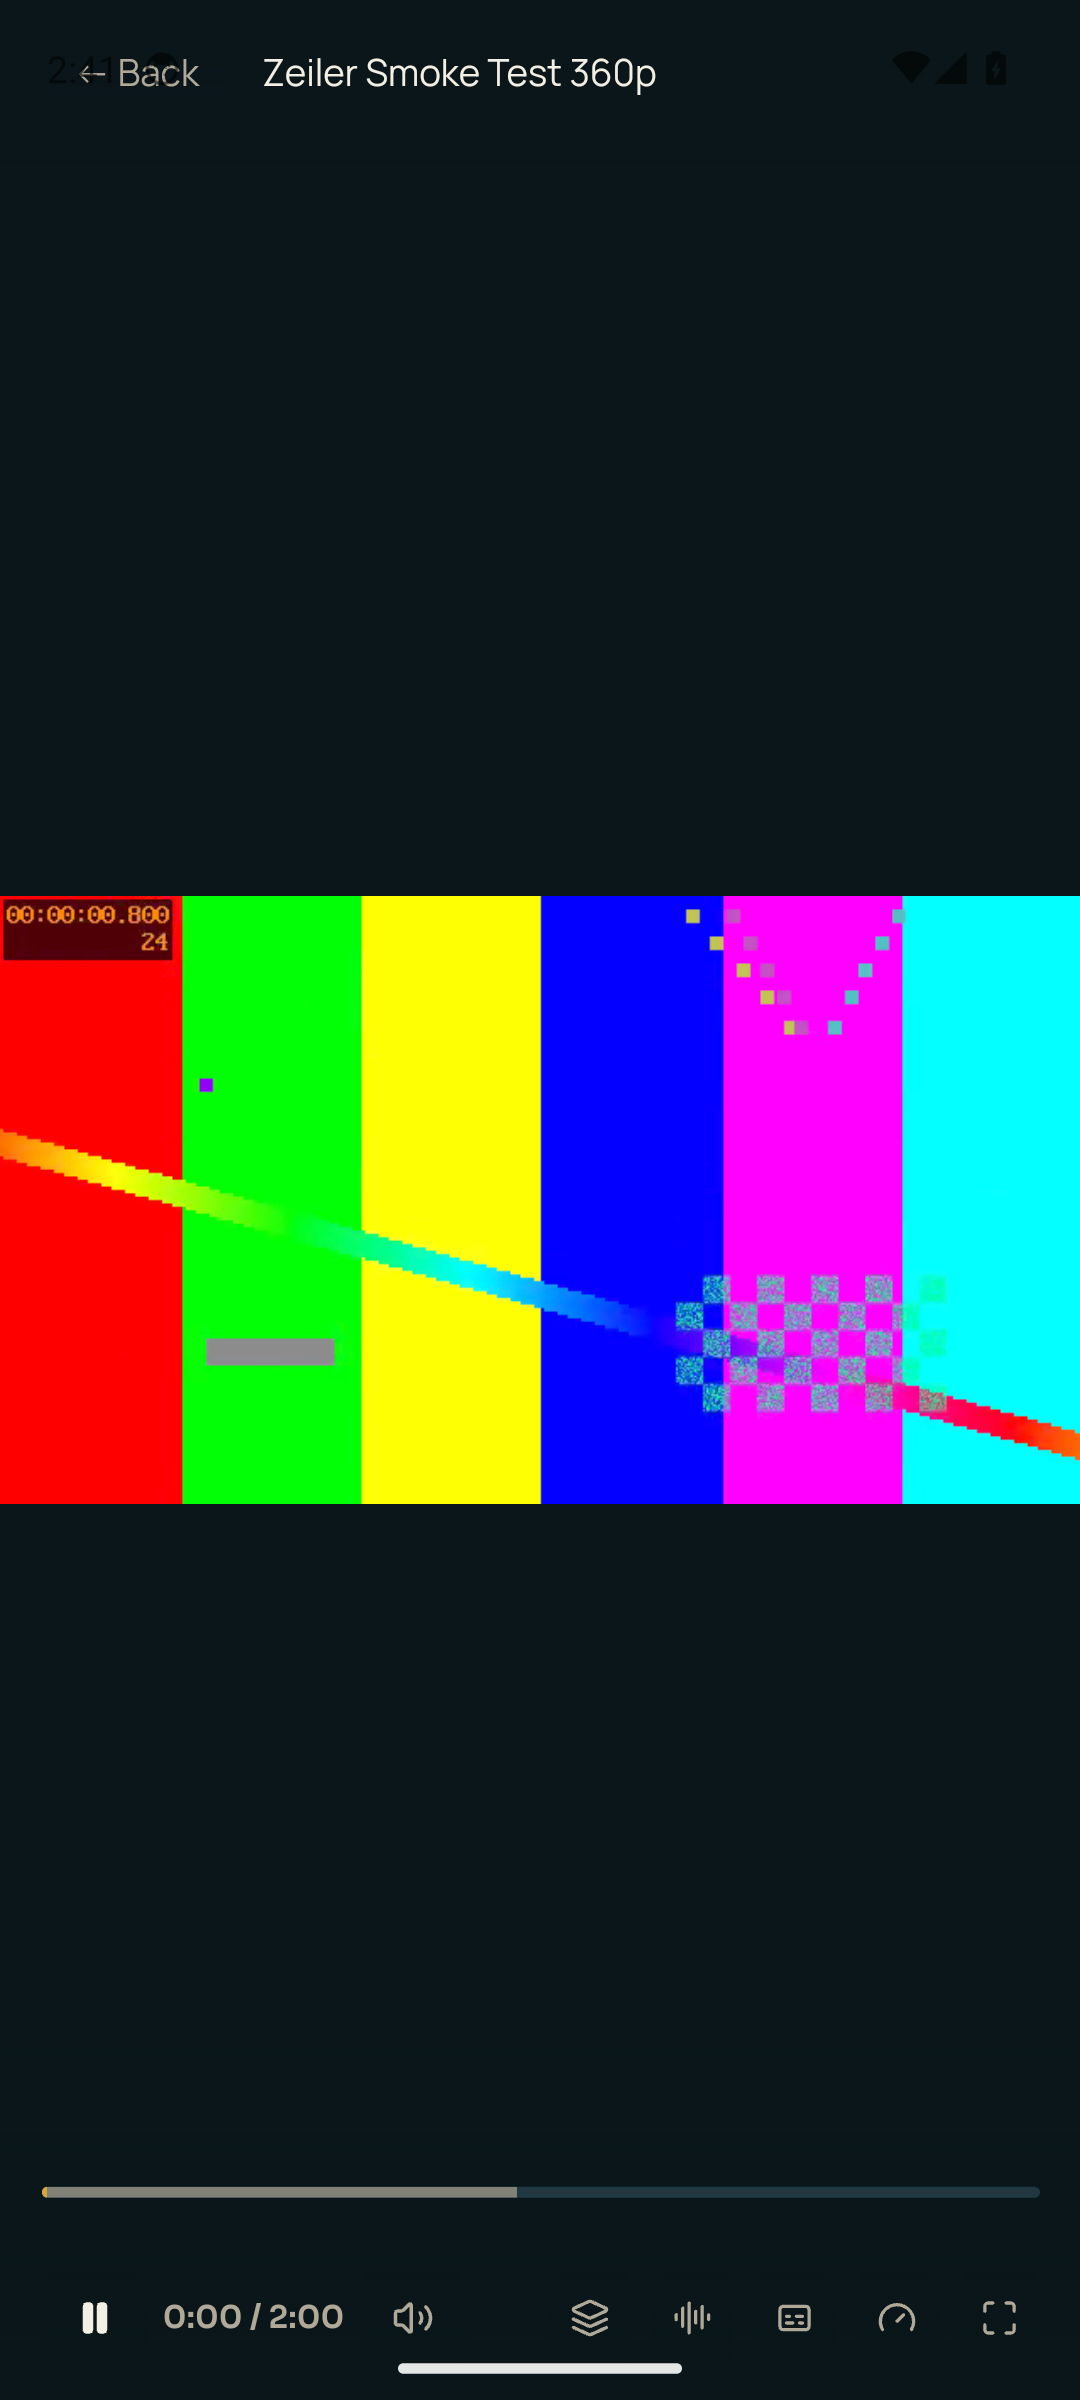
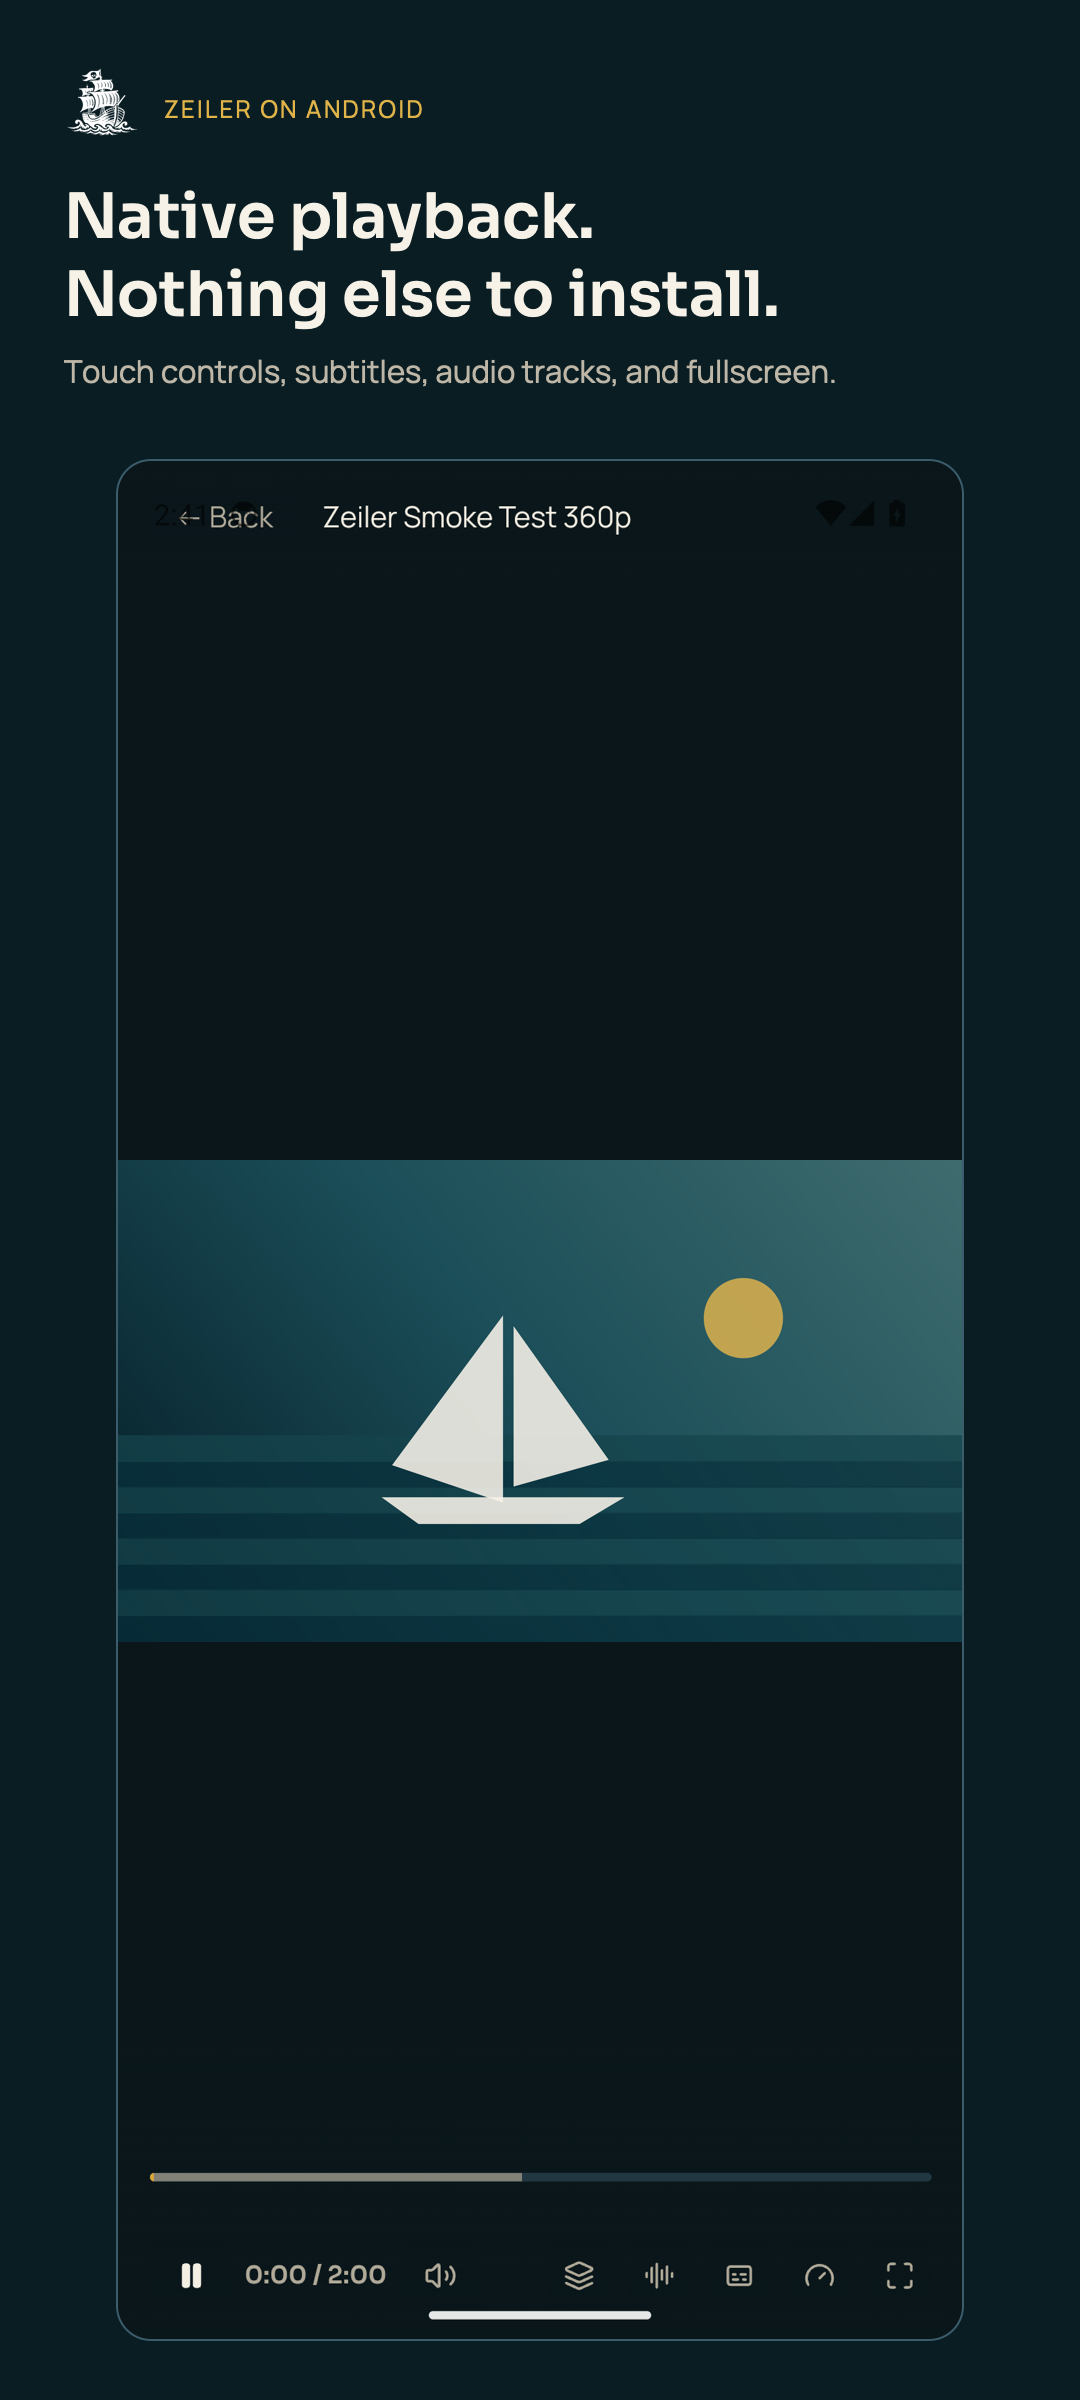
Add Play promotional screenshots

diff --git a/scripts/render-play-screenshots.swift b/scripts/render-play-screenshots.swift
@@ -1,0 +1,214 @@
+import AppKit
+import CoreText
+
+let root = URL(fileURLWithPath: #filePath).deletingLastPathComponent().deletingLastPathComponent()
+let fonts = [
+  "public/fonts/sora-600.ttf",
+  "public/fonts/manrope-400.ttf",
+  "public/fonts/manrope-600.ttf",
+]
+for font in fonts {
+  CTFontManagerRegisterFontsForURL(root.appendingPathComponent(font) as CFURL, .process, nil)
+}
+
+func color(_ hex: UInt32) -> NSColor {
+  NSColor(
+    calibratedRed: CGFloat((hex >> 16) & 0xff) / 255,
+    green: CGFloat((hex >> 8) & 0xff) / 255,
+    blue: CGFloat(hex & 0xff) / 255,
+    alpha: 1
+  )
+}
+
+let canvas = color(0x0a161a)
+let ink = color(0xf4efe3)
+let muted = color(0xb0a998)
+let accent = color(0xd9a63a)
+let edge = color(0x2e4a57)
+let logo = NSImage(contentsOf: root.appendingPathComponent("assets/brand/zeiler-logo-white.png"))!
+
+func font(_ name: String, _ size: CGFloat) -> NSFont {
+  NSFont(name: name, size: size) ?? NSFont.systemFont(ofSize: size)
+}
+
+func scene() -> NSImage {
+  let image = NSImage(size: NSSize(width: 1600, height: 900))
+  image.lockFocus()
+  let rect = NSRect(x: 0, y: 0, width: 1600, height: 900)
+  NSGradient(colors: [color(0x07151c), color(0x163d46), color(0x31595b)])!
+    .draw(in: rect, angle: 40)
+  accent.withAlphaComponent(0.82).setFill()
+  NSBezierPath(ovalIn: NSRect(x: 1110, y: 530, width: 150, height: 150)).fill()
+  for index in 0..<8 {
+    color(index % 2 == 0 ? 0x0a242d : 0x12343b).withAlphaComponent(0.74).setFill()
+    NSBezierPath(rect: NSRect(x: 0, y: index * 48, width: 1600, height: 50)).fill()
+  }
+  ink.withAlphaComponent(0.88).setFill()
+  let sail = NSBezierPath()
+  sail.move(to: NSPoint(x: 730, y: 260))
+  sail.line(to: NSPoint(x: 730, y: 610))
+  sail.line(to: NSPoint(x: 520, y: 330))
+  sail.close()
+  sail.fill()
+  let otherSail = NSBezierPath()
+  otherSail.move(to: NSPoint(x: 750, y: 590))
+  otherSail.line(to: NSPoint(x: 750, y: 290))
+  otherSail.line(to: NSPoint(x: 930, y: 340))
+  otherSail.close()
+  otherSail.fill()
+  let hull = NSBezierPath()
+  hull.move(to: NSPoint(x: 500, y: 270))
+  hull.line(to: NSPoint(x: 960, y: 270))
+  hull.line(to: NSPoint(x: 875, y: 220))
+  hull.line(to: NSPoint(x: 570, y: 220))
+  hull.close()
+  hull.fill()
+  image.unlockFocus()
+  return image
+}
+
+func render(
+  source: String,
+  output: String,
+  width: Int,
+  height: Int,
+  title: String,
+  body: String,
+  phone: Bool
+) throws {
+  guard let bitmap = NSBitmapImageRep(
+    bitmapDataPlanes: nil,
+    pixelsWide: width,
+    pixelsHigh: height,
+    bitsPerSample: 8,
+    samplesPerPixel: 4,
+    hasAlpha: true,
+    isPlanar: false,
+    colorSpaceName: .deviceRGB,
+    bytesPerRow: 0,
+    bitsPerPixel: 0
+  ) else { fatalError("Could not allocate the screenshot canvas") }
+  NSGraphicsContext.saveGraphicsState()
+  NSGraphicsContext.current = NSGraphicsContext(bitmapImageRep: bitmap)
+  canvas.setFill()
+  NSRect(x: 0, y: 0, width: width, height: height).fill()
+
+  func topRect(_ x: CGFloat, _ y: CGFloat, _ w: CGFloat, _ h: CGFloat) -> NSRect {
+    NSRect(x: x, y: CGFloat(height) - y - h, width: w, height: h)
+  }
+  func text(_ value: String, _ rect: NSRect, _ typeface: NSFont, _ foreground: NSColor, tracking: CGFloat = 0) {
+    let paragraph = NSMutableParagraphStyle()
+    paragraph.lineBreakMode = .byWordWrapping
+    value.draw(in: rect, withAttributes: [
+      .font: typeface,
+      .foregroundColor: foreground,
+      .paragraphStyle: paragraph,
+      .kern: tracking,
+    ])
+  }
+
+  if phone {
+    logo.draw(in: topRect(64, 64, 76, 76))
+    text("ZEILER ON ANDROID", topRect(164, 92, 700, 28), font("Manrope", 24), accent, tracking: 2.4)
+    text(title, topRect(64, 178, 940, 165), font("Sora", 62), ink)
+    text(body, topRect(64, 350, 900, 74), font("Manrope", 31), muted)
+  } else {
+    logo.draw(in: topRect(64, 64, 76, 76))
+    text("ZEILER ON ANDROID TV", topRect(164, 92, 400, 28), font("Manrope", 22), accent, tracking: 2)
+    text(title, topRect(64, 205, 470, 220), font("Sora", 58), ink)
+    text(body, topRect(64, 455, 450, 130), font("Manrope", 29), muted)
+  }
+
+  let image = NSImage(contentsOf: root.appendingPathComponent(source))!
+  let frame = phone ? topRect(117, 460, 846, 1880) : topRect(590, 202, 1270, 714)
+  let clip = NSBezierPath(roundedRect: frame, xRadius: phone ? 34 : 20, yRadius: phone ? 34 : 20)
+  clip.addClip()
+  image.draw(in: frame)
+  if source.contains("player") {
+    if phone {
+      scene().draw(in: topRect(117, 1160, 846, 482))
+    } else {
+      scene().draw(in: frame)
+      canvas.withAlphaComponent(0.56).setFill()
+      topRect(590, 202, 1270, 72).fill()
+      text("← Back", topRect(618, 224, 120, 28), font("Manrope", 22), ink)
+      text("Voyage Home", topRect(760, 224, 420, 28), font("Manrope", 22), ink)
+      canvas.withAlphaComponent(0.92).setFill()
+      topRect(590, 794, 1270, 122).fill()
+      muted.setFill()
+      topRect(630, 810, 1180, 3).fill()
+      accent.setFill()
+      topRect(630, 810, 480, 3).fill()
+      text("Ⅱ", topRect(630, 840, 34, 34), font("Manrope", 24), ink)
+      text("1:17 / 2:00", topRect(690, 844, 170, 28), font("Manrope", 20), muted)
+      text("Streams", topRect(1320, 842, 130, 28), font("Manrope", 20), muted)
+      text("Audio", topRect(1460, 842, 90, 28), font("Manrope", 20), muted)
+      text("Subtitles", topRect(1580, 842, 140, 28), font("Manrope", 20), muted)
+      text("1×", topRect(1760, 842, 40, 28), font("Manrope", 20), muted)
+      text("⛶", topRect(1810, 840, 40, 34), font("Manrope", 24), muted)
+    }
+  }
+  NSGraphicsContext.current?.restoreGraphicsState()
+  NSGraphicsContext.current = NSGraphicsContext(bitmapImageRep: bitmap)
+  edge.setStroke()
+  clip.lineWidth = 2
+  clip.stroke()
+
+  let destination = root.appendingPathComponent(output)
+  try FileManager.default.createDirectory(at: destination.deletingLastPathComponent(), withIntermediateDirectories: true)
+  guard let data = bitmap.representation(using: .png, properties: [:]) else {
+    fatalError("Could not encode \(output)")
+  }
+  try data.write(to: destination)
+  print("\(output): \(width)x\(height)")
+}
+
+let jobs = [
+  (
+    "fastlane/source-screenshots/phone/01-title.png",
+    "fastlane/metadata/android/en-US/images/phoneScreenshots/01-title.png",
+    "Your library.\nRight where you left off.",
+    "Resume episodes and keep every profile’s place.",
+    true
+  ),
+  (
+    "fastlane/source-screenshots/phone/02-player.png",
+    "fastlane/metadata/android/en-US/images/phoneScreenshots/02-player.png",
+    "Native playback.\nNothing else to install.",
+    "Touch controls, subtitles, audio tracks, and fullscreen.",
+    true
+  ),
+  (
+    "fastlane/source-screenshots/tv/01-title.png",
+    "fastlane/metadata/android/en-US/images/tvScreenshots/01-title.png",
+    "Your titles. Your add-ons.\nYour screen.",
+    "A cinematic home for the catalogs you choose.",
+    false
+  ),
+  (
+    "fastlane/source-screenshots/tv/02-stream-picker.png",
+    "fastlane/metadata/android/en-US/images/tvScreenshots/02-stream-picker.png",
+    "Pick the stream\nthat fits.",
+    "Quality, source, and episode matching in one focused picker.",
+    false
+  ),
+  (
+    "fastlane/source-screenshots/tv/03-player.png",
+    "fastlane/metadata/android/en-US/images/tvScreenshots/03-player.png",
+    "Built for the\nbig screen.",
+    "D-pad navigation, native playback, and saved progress.",
+    false
+  ),
+]
+
+for job in jobs {
+  try render(
+    source: job.0,
+    output: job.1,
+    width: job.4 ? 1080 : 1920,
+    height: job.4 ? 2400 : 1080,
+    title: job.2,
+    body: job.3,
+    phone: job.4
+  )
+}
